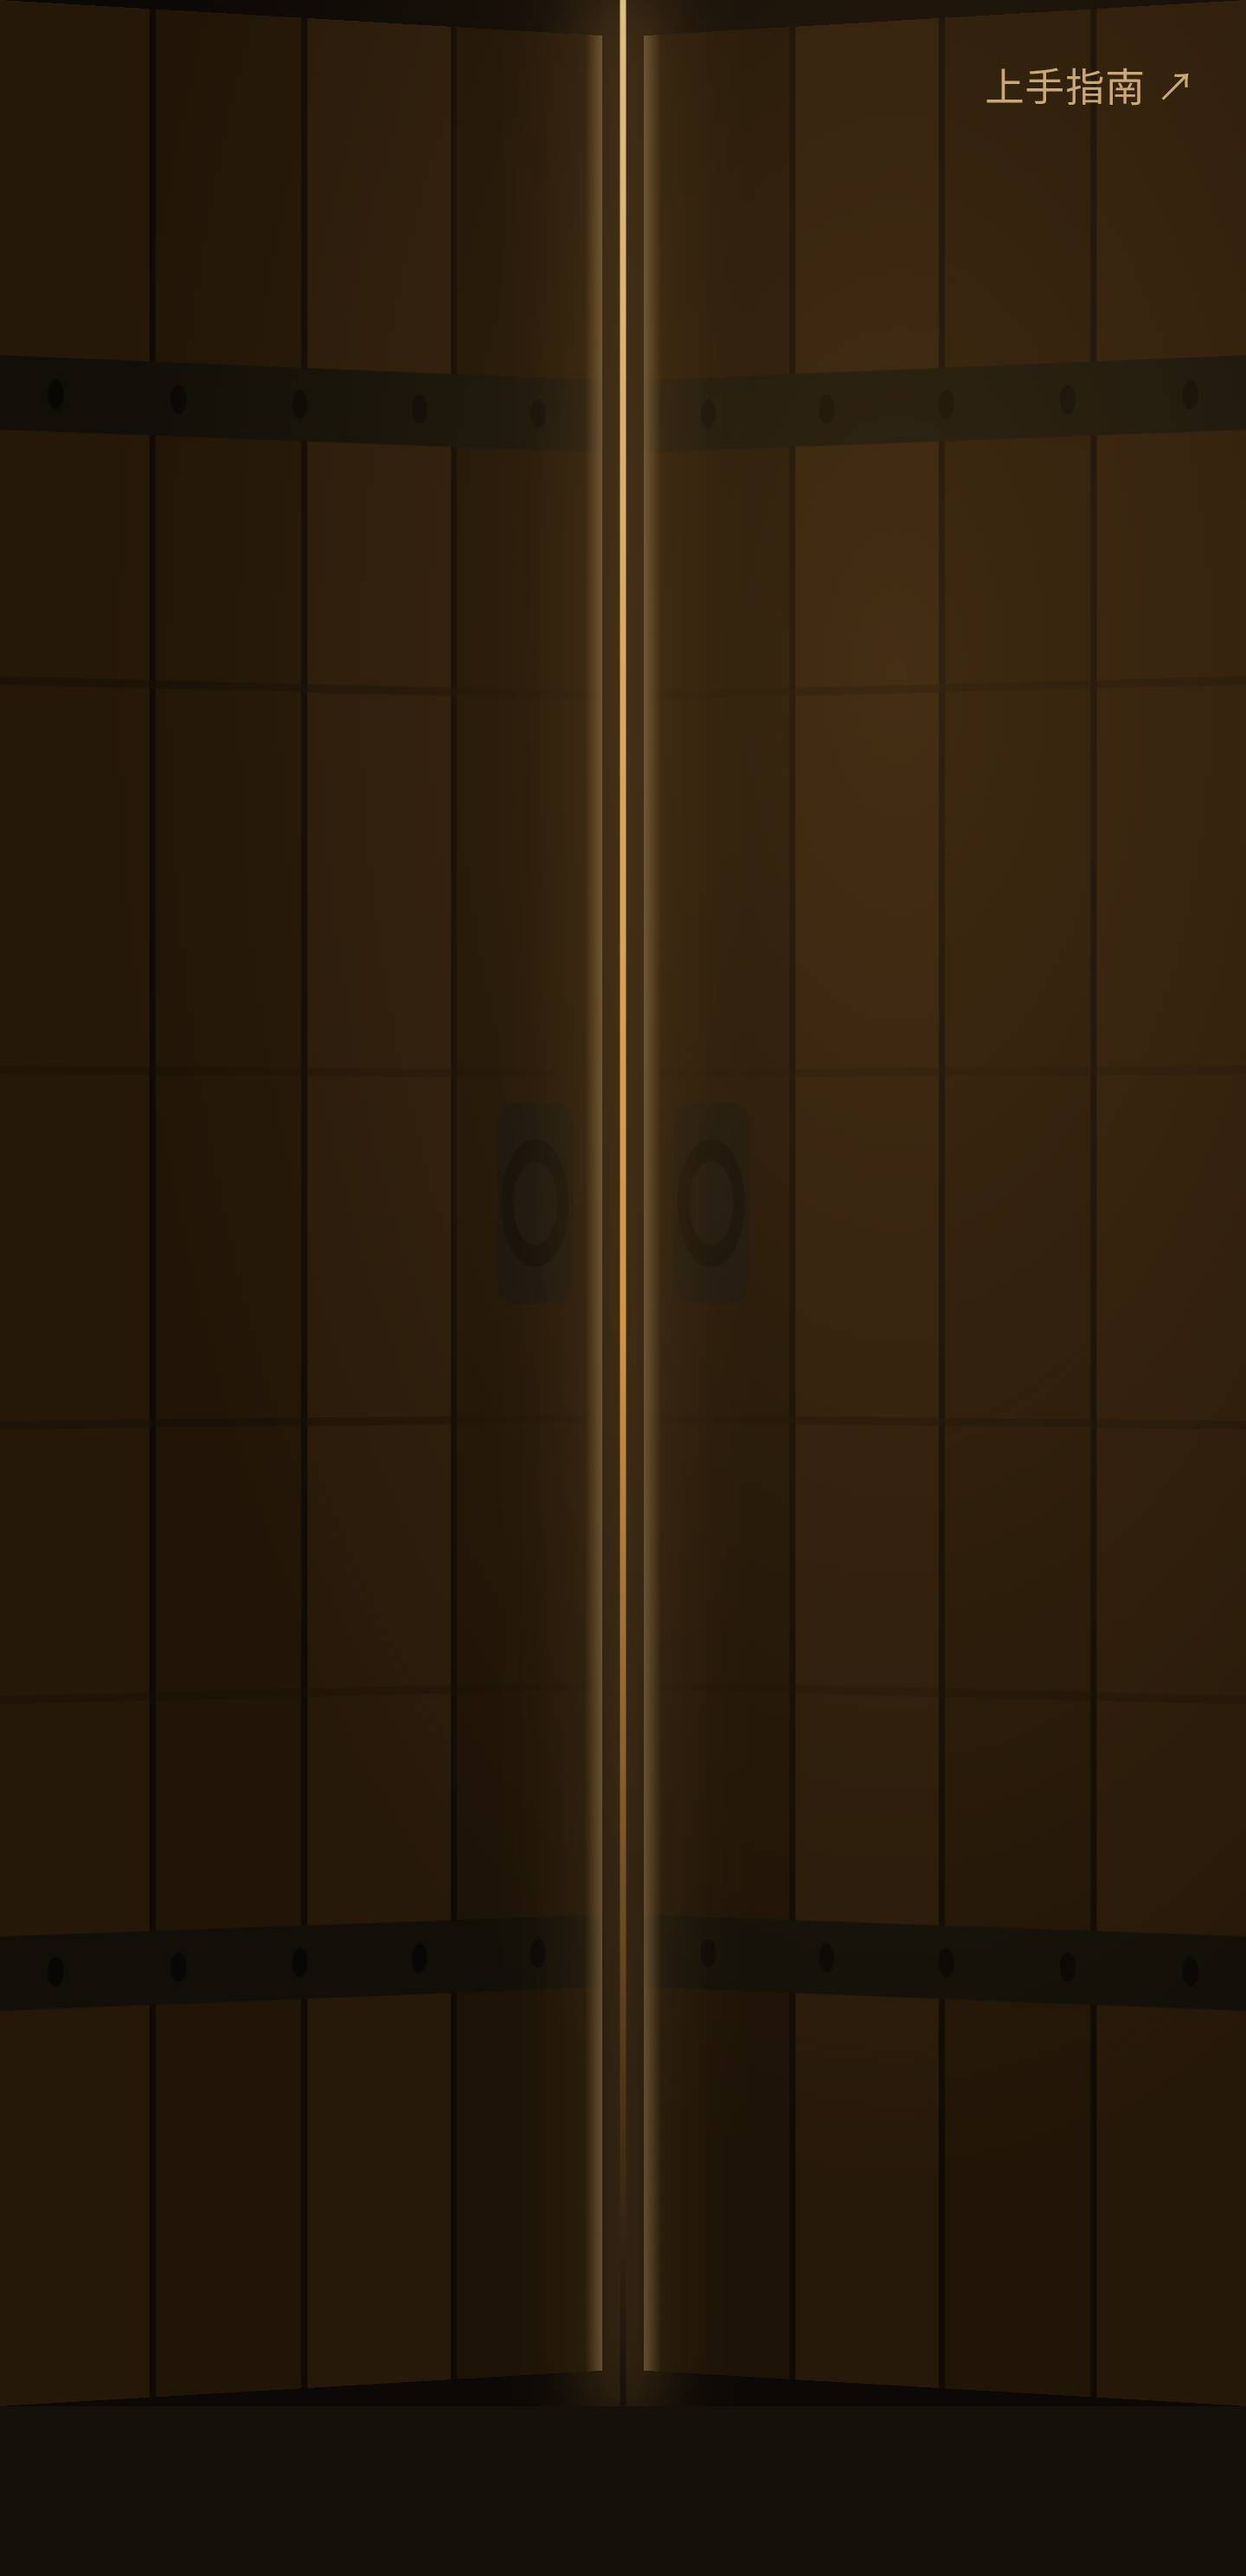
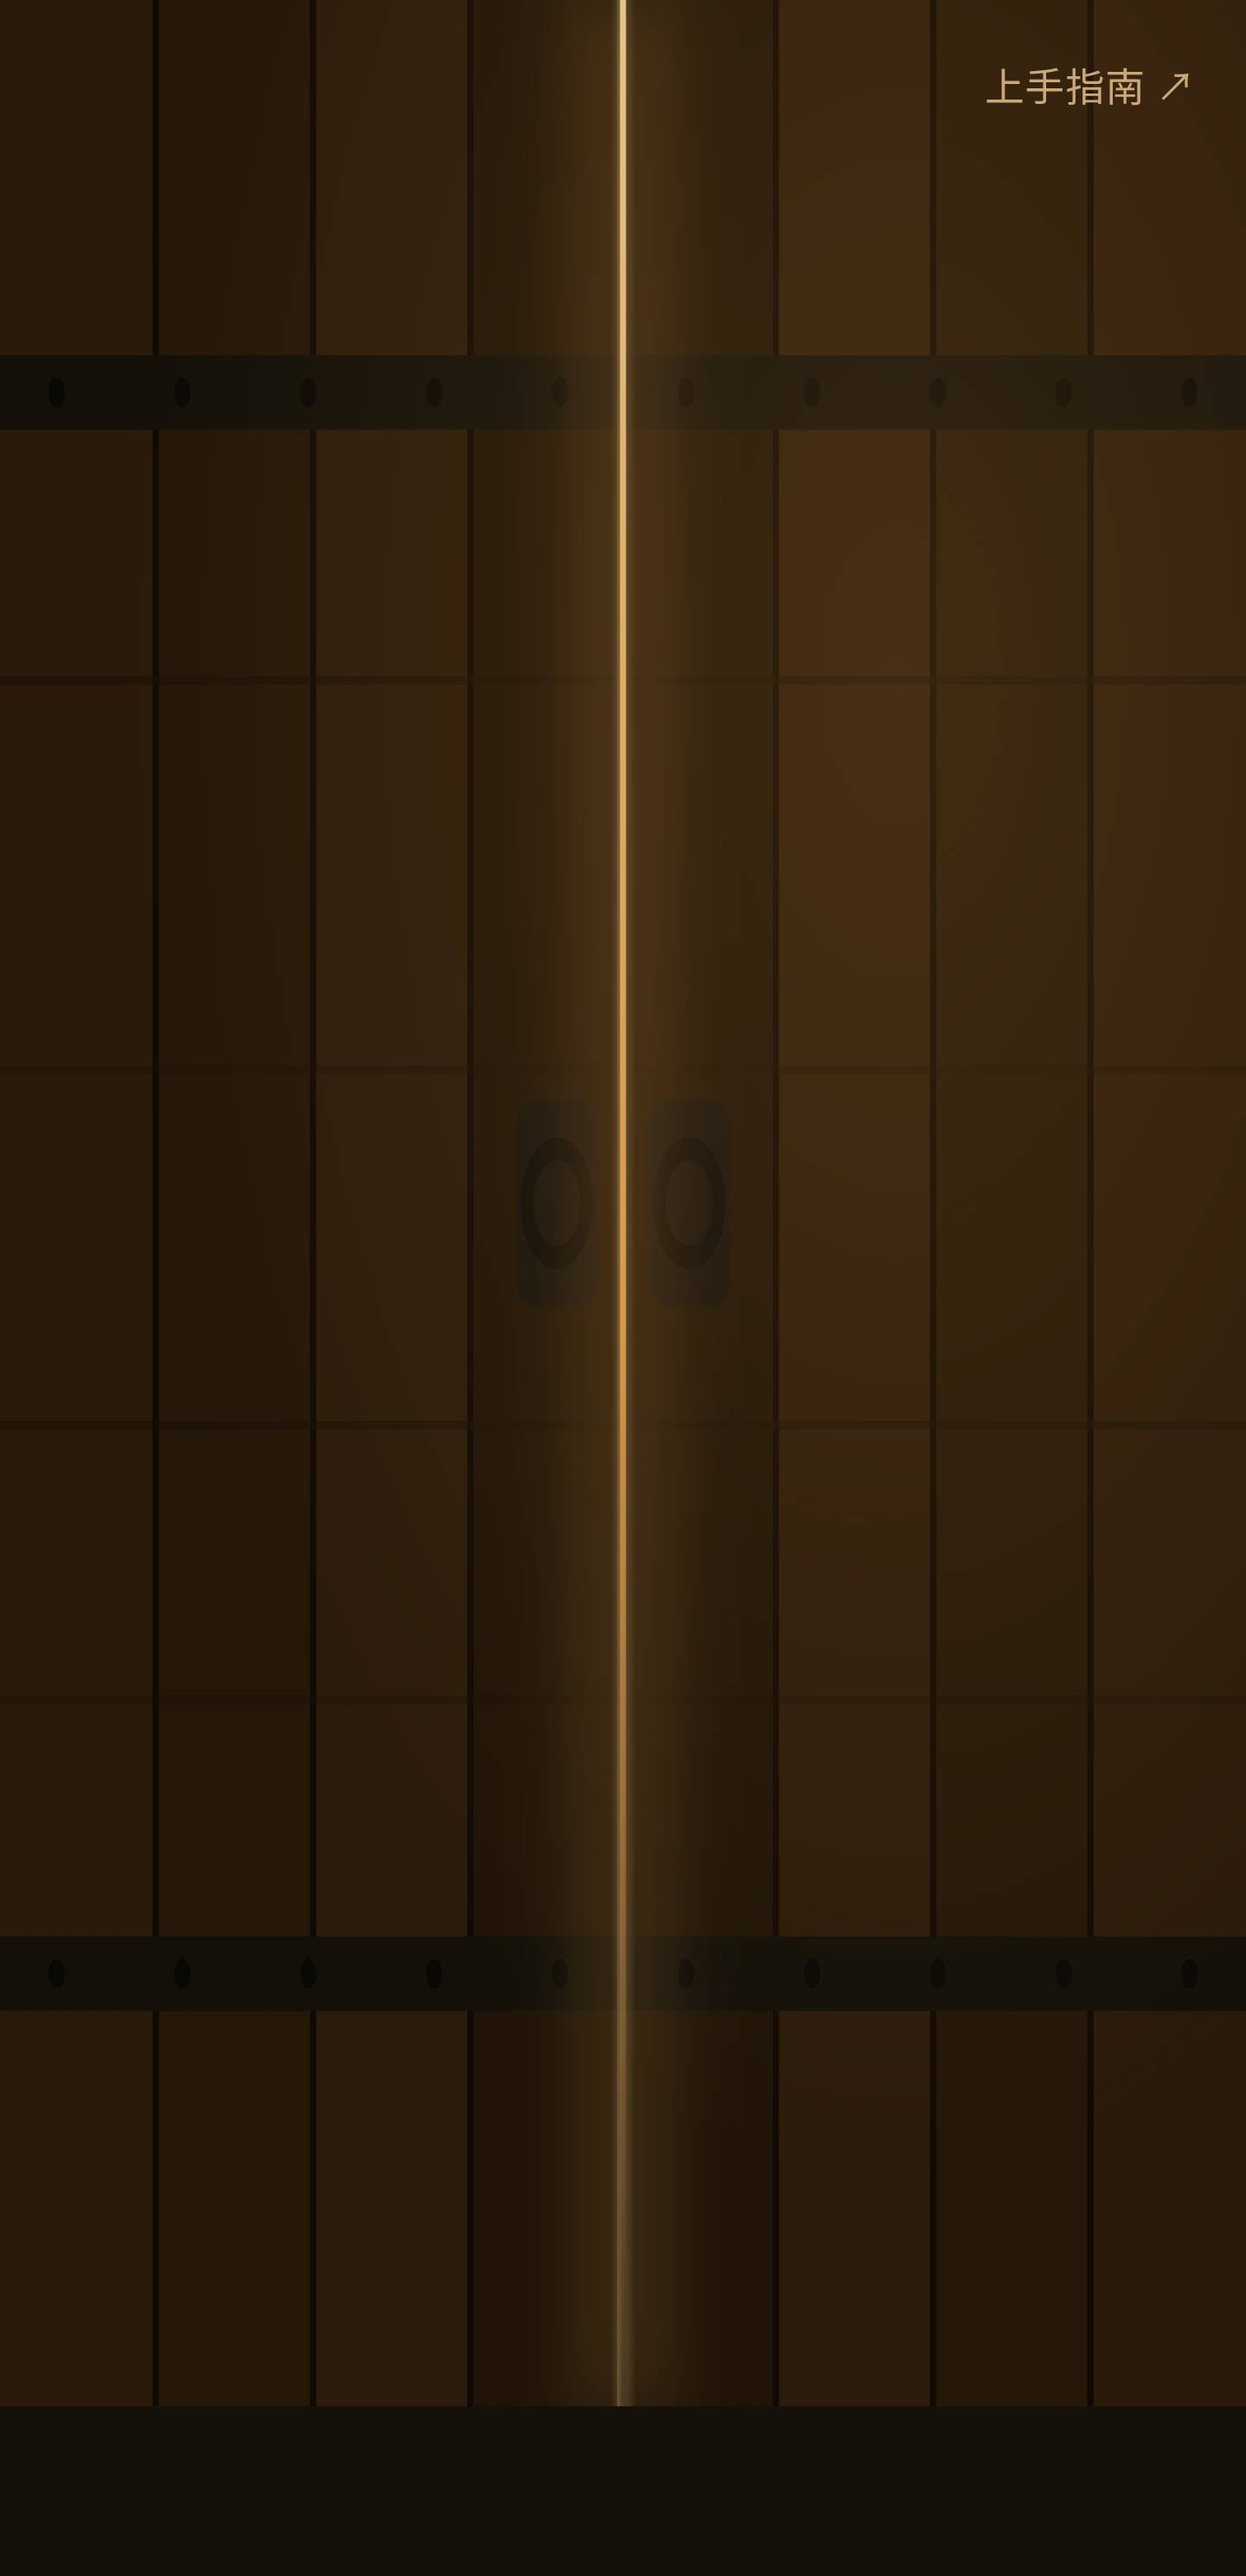
fix(web): door choreography — doors start closed (facade cross-fades into shut leaves), seam light leaks first, then leaves swing open inward; drop the illogical shut phase

diff --git a/web/index.html b/web/index.html
@@ -204,12 +204,12 @@ html.busy .hero-flame { animation: heroBusy 1.1s ease-in-out infinite; }
 
 /* ---------- 封面门：锁定态 + 开门（方向 A 门缝透光） ----------
    锁定 = overflow:hidden + inert（平台级状态，零事件拦截；滚轮/触摸/键盘/进度条全部统一被拦）。
-   每次进入页面必锁（?door=0 可跳过）；开门 = 立面淡出 → 缝光预亮 → 双扇绕外缘铰链
-   向内合拢（3D）→ 缝光爆亮+换景 → 双扇内开露出序幕+暖光扑面+火星 → 交还滚动，封面
-   随即退场（正文里不再回头，序幕即页首；print 覆盖仍保留封面当扉页）。
+   每次进入页面必锁（?door=0 可跳过）；开门 = 立面淡入为合拢的门扇（门本就关着）→ 缝光
+   漏出 → 缝光爆亮+门后换景 → 双扇绕外缘铰链内开（往酒馆里开）露出序幕+暖光扑面+火星
+   → 交还滚动，封面随即退场（正文里不再回头，序幕即页首；print 覆盖仍保留封面当扉页）。
    门板材质见 defs #doorface；右扇镜像后缝侧细节自动对位。 */
 .door-l, .door-r, .door-seam, .door-bloom { display: none; }
-.doorway { display: none; position: absolute; inset: 0; z-index: 4; background: #0c0805; } /* 门洞空面：垫在门扇后，合拢过程的透视缺口露暗色门洞而非底后巨焰 */
+.doorway { display: none; position: absolute; inset: 0; z-index: 4; background: #0c0805; } /* 门洞空面：垫在门扇后，开门过程的透视缺口露暗色门洞而非底后巨焰 */
 .door-l, .door-r { position: absolute; top: 0; bottom: 0; width: 50.5%; z-index: 5; background: #1c1207; will-change: transform; }
 .door-l { left: 0; transform-origin: 0 50%; }
 .door-r { right: 0; transform-origin: 100% 50%; }
@@ -1841,7 +1841,9 @@ html.speaker-progress .progress { height: 5px; }
   /* ---------- 封面门：同文档锁定态（overflow:hidden + inert，零事件拦截） ----------
      每次进入必锁（用户要求：开门是仪式，不是障碍）；?door=0 跳过（测试/回访）、?door=1 强制演示、带 hash 进入不锁。
      开门这次可信 click 顺带完成 Chrome Android 拖拽触觉的会话解锁——门口一声嗒，全站触觉上线。
-     开过门即封面退场：正文里不再回头（用户要求），#top 锚点重指序幕，打印讲义例外（print 恢复封面扉页）。 */
+     开过门即封面退场：正文里不再回头（用户要求），#top 锚点重指序幕，打印讲义例外（print 恢复封面扉页）。
+     时序：立面淡入为合拢的门扇（门本就关着）→ 缝光漏出 → 缝光爆亮 + 门后换景 → 双扇绕
+     外缘铰链内开 + 暖光扑面 + 火星 → +400ms 交还滚动，同时封面退场（序幕即页首）。 */
   var doorBtn = document.querySelector(".hero .btn");
   if (doorBtn && document.querySelector(".door-l")) {
     var doorBusy = false;
@@ -1900,15 +1902,12 @@ html.speaker-progress .progress { height: 5px; }
       doorL.style.display = doorR.style.display = "block";
       doorL.style.position = doorR.style.position = "fixed";
       doorSeam.style.display = doorBloom.style.display = "block";
-      var P = "perspective(1100px) ", OPEN = 64, EZS = "cubic-bezier(.5,.05,.28,1)", EZO = "cubic-bezier(.62,0,.24,1)";
-      function doorSwing(leaf, dir, phase) { /* 铰链在外缘：内合/内开都往屏幕深处转（门往酒馆里开）。dir=1 左扇 / -1 右扇 */
-        var kf = phase === "shut"
-          ? [{ transform: P + "rotateY(" + dir * OPEN + "deg)", filter: "brightness(.72)" },
-             { transform: P + "rotateY(" + dir * -2.5 + "deg)", offset: .84 },
-             { transform: P + "rotateY(0deg)", filter: "brightness(1)" }]
-          : [{ transform: P + "rotateY(0deg)", filter: "brightness(1)" },
-             { transform: P + "rotateY(" + dir * OPEN + "deg)", filter: "brightness(1.18)" }]; /* 内开时室内光扑上扇面 */
-        return leaf.animate(kf, { duration: phase === "shut" ? 640 : 820, delay: phase === "shut" ? 300 : 60, easing: phase === "shut" ? EZS : EZO, fill: "forwards" });
+      var P = "perspective(1100px) ", OPEN = 64, EZO = "cubic-bezier(.62,0,.24,1)";
+      function doorSwing(leaf, dir) {        /* 铰链在外缘，往屏幕深处内开——你推开门走进酒馆。dir=1 左扇 / -1 右扇 */
+        return leaf.animate(
+          [{ transform: P + "rotateY(0deg)", filter: "brightness(1)" },
+           { transform: P + "rotateY(" + dir * OPEN + "deg)", filter: "brightness(1.18)" }], /* 内开时室内光扑上扇面 */
+          { duration: 820, easing: EZO, fill: "forwards" });
       }
       function doorSparks() {                /* 开门瞬间：缝口迸出的火星（fixed 于视口，复用 hero-spark 词汇） */
         for (var i = 0; i < 7; i++) {
@@ -1926,28 +1925,29 @@ html.speaker-progress .progress { height: 5px; }
       var fFade = heroInnerEl.animate(
         [{ opacity: 1, transform: "none", filter: "none" }, { opacity: 0, transform: "translateY(-8px)", filter: "blur(2px)" }],
         { duration: 280, easing: "ease-out", fill: "forwards" });
-      var fSeam = doorSeam.animate(          /* 缝光预亮：门还在逼近，光已从缝里漏出 */
+      var fInL = doorL.animate([{ opacity: 0 }, { opacity: 1 }], { duration: 220, easing: "ease-out", fill: "forwards" }); /* 立面淡入为门扇：门本就关着，你正站在门前 */
+      var fInR = doorR.animate([{ opacity: 0 }, { opacity: 1 }], { duration: 220, easing: "ease-out", fill: "forwards" });
+      var fSeam = doorSeam.animate(          /* 缝光预亮：门还关着，光已从缝里漏出 */
         [{ transform: "translateX(-50%) scaleX(0)", opacity: 0 }, { transform: "translateX(-50%) scaleX(1)", opacity: .9 }],
-        { duration: 320, delay: 120, easing: "ease-out", fill: "forwards" });
-      var shutL = doorSwing(doorL, 1, "shut"), shutR = doorSwing(doorR, -1, "shut");
-      Promise.all([fFade.finished, fSeam.finished, shutL.finished, shutR.finished]).then(function () {
-        if (doorWay) doorWay.style.display = "none"; /* 门已合拢盖住门洞空面：此刻撤掉，开门缺口直通真场景 */
-        doorSeam.animate(                    /* 落位：缝光爆亮一瞬 */
+        { duration: 320, delay: 250, easing: "ease-out", fill: "forwards" });
+      Promise.all([fInL.finished, fInR.finished, fSeam.finished]).then(function () {
+        if (doorWay) doorWay.style.display = "none"; /* 门扇已就位盖住门洞空面：撤掉，开门缺口直通真场景 */
+        doorSeam.animate(                    /* 光涌：门将动，缝光先爆亮 */
           [{ transform: "translateX(-50%) scaleX(1)", opacity: .9 }, { transform: "translateX(-50%) scaleX(2.6)", opacity: 1 }],
           { duration: 170, easing: "ease-out", fill: "forwards" });
-        doorBloom.animate([{ opacity: 0 }, { opacity: 1 }], { duration: 140, easing: "ease-out", fill: "forwards" })
+        var fBloom = doorBloom.animate([{ opacity: 0 }, { opacity: 1 }], { duration: 140, easing: "ease-out", fill: "forwards" })
           .finished.then(function () {
-            doorBloom.animate([{ opacity: 1 }, { opacity: 0 }], { duration: 1000, easing: "ease-out", fill: "forwards" });
+            return doorBloom.animate([{ opacity: 1 }, { opacity: 0 }], { duration: 680, easing: "ease-out", fill: "forwards" }).finished;
           });
-        jumpBehind();                        /* 门后已是序幕；焦点交给序幕标题 */
+        jumpBehind();                        /* 门还合着，幕后已换成序幕；焦点交给序幕标题 */
         doorInertSet(false);
-        var openL = doorSwing(doorL, 1, "open"), openR = doorSwing(doorR, -1, "open");
+        var openL = doorSwing(doorL, 1), openR = doorSwing(doorR, -1);
         doorSeam.animate([{ opacity: 1 }, { opacity: 0 }], { duration: 360, delay: 200, easing: "ease-out", fill: "forwards" });
         doorSparks();
         setTimeout(function () {             /* 门开过半：交还滚动 + 封面退场（序幕即页首，顶栏归位） */
           doorRetireCover();
         }, 400);
-        Promise.all([openL.finished, openR.finished]).then(function () {
+        Promise.all([openL.finished, openR.finished, fBloom]).then(function () {
           doorL.style.display = doorR.style.display = "none";
           doorSeam.style.display = doorBloom.style.display = "none";
           doorBusy = false;
